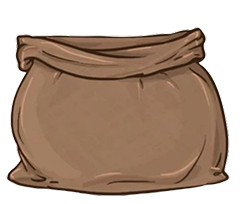
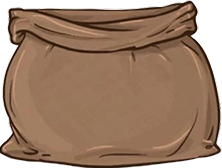
#18 tiles container, game buttons added

diff --git a/app/gamestate/[id]/page.tsx b/app/gamestate/[id]/page.tsx
@@ -2,6 +2,7 @@
 
 import React, { useState } from "react";
 import "@ant-design/v5-patch-for-react-19";
+import { Button } from "antd"; 
 import Image from "next/image";
 import "../gamestate.css";
 
@@ -113,6 +114,22 @@ const Gamestate: React.FC = () => {
         }
     };
 
+    const verifyWord = () => {
+        alert("WordVerify");
+    }
+
+    const exchangeTiles = () => {
+        alert("Exchange");
+    }
+
+    const skipTurn = () => {
+        alert("Skip");
+    }
+
+    const commitWord = () => {
+        alert("WordCommited");
+    }
+
     return (
         <div id="screen">
             <div id="board-container">
@@ -143,10 +160,12 @@ const Gamestate: React.FC = () => {
                 </div>
             </div>
             <div id="rest-container">
-                <div id="top"></div>
+                <div id="top">
+
+                </div>
                 <div id="bag-stuff">
                     <div id="bag-image">
-                        <Image id="bag-jpg" src="/TilesBag.png" alt="Letters Bag" width={248} height={204} priority />
+                        <Image id="bag-jpg" src="/TilesBag.png" alt="Letters Bag" width={222} height={168} priority />
                     </div>
                     <div id="bag-info">
                         <div id="bag-description-container">
@@ -173,7 +192,45 @@ const Gamestate: React.FC = () => {
                         </div>
                     </div>
                 </div>
-                <div id="game-buttons"></div>
+                <div id="tiles-storage-container">
+                <div 
+                    id="tiles-storage" 
+                    >
+                    {[...Array(7)].map((_, col) => (
+                        <div 
+                        key={col} 
+                        id={col.toString()} 
+                        className="tile-placeholder"
+                        />
+                    ))}
+                    </div>
+                </div>
+                <div id="game-buttons">
+                    <div id="upper-row-container">
+                        <div id="verify-button-container">
+                            <Button onClick = {verifyWord} id="verify-button"  className="game-buttons">
+                                Verify
+                            </Button>
+                        </div>
+                        <div id="exchange-button-container">
+                            <Button onClick = {() => exchangeTiles()} id="exhange-button" className="game-buttons">
+                                Exchange
+                            </Button>
+                        </div>
+                        <div id="skip-button-container">
+                            <Button onClick = {skipTurn} id="skip-button" className="game-buttons">
+                                Skip
+                            </Button>
+                        </div>
+                    </div>
+                    <div id="lower-row-container">
+                        <div id="commit-button-container">
+                            <Button onClick = {commitWord} id="commit-button" className="game-buttons">
+                                Play Word
+                            </Button>
+                        </div>
+                    </div>
+                </div>
             </div>
         </div>
     );

diff --git a/app/gamestate/gamestate.css b/app/gamestate/gamestate.css
@@ -11,12 +11,12 @@ div {
     display: flex;
     height: 100vh;
     width:fit-content;
+    margin-left: 1vw;
 }
 
 #game-board {
     height: 95vh;
     width: 95vh;
-    /* border-color: pink; */
     display: grid;
     margin: auto;
 }
@@ -37,19 +37,15 @@ div {
 
 #top {
     width: 100%;
-    height: 35vh;
-}
-
-#game-buttons {
-    width: 100%;
-    height: 35vh;
+    height: 33.9vh;
 }
 
 #bag-stuff {
     display: flex;
     width: 100%;
-    height: 30vh;
+    height: 25vh;
 }
+
 
 #bag-image {
     width: 33%;
@@ -100,7 +96,7 @@ div {
 
 #bag-input {
     width: 90%;
-    height: 60%;
+    height: 80%;
     border-radius: 10px;
     border: none;
     font-size: 4vh;
@@ -115,13 +111,14 @@ div {
 }
 
 #bag-button {
-    height: 60%;
+    height: 80%;
     width: 90%;
     border-radius: 10px;
     border: none;
     font-size: 4.5vh;
     background-color: #9A9CF5;
     cursor: pointer;
+    font-weight: 550;
 }
 
 #bag-button:hover {
@@ -142,6 +139,96 @@ div {
     font-style: italic;
     height: fit-content;
     padding-right: 1vw;
+}
+
+#tiles-storage-container {
+    display: flex;
+    justify-content: center;
+    align-items: center;
+    width: 100%;
+    height: 15vh;
+}
+
+#tiles-storage {
+    display: grid;
+    grid-template-columns: repeat(7, 1fr);
+    gap: 8px;
+    padding: 8px;
+    height: 12vh;
+    background-color: #9A9CF5;
+}
+
+.tile-placeholder {
+    width: 10vh;
+    height: 10vh;
+    background-color: #ffffff;
+    border-radius: 10px;
+}
+  
+button.game-buttons {
+    height: 100%;
+    width: 100%;
+    font-size: 6vh;
+    font-weight: 700;
+}
+
+#game-buttons {
+    width: 100%;
+    height: 27.5vh;
+    display: flex;
+    flex-direction: column;
+}
+
+#upper-row-container {
+    width: 100%;
+    height: 45%;
+    display: flex;
+    flex-direction: row;
+}
+
+#verify-button-container {
+    height: 100%;
+    width: 41%;
+    padding: 1%;
+}
+
+#verify-button {
+    background-color:#9A9CF5;
+}
+
+#exchange-button-container {
+    height: 100%;
+    width: 37%;
+    padding: 1%
+}
+
+#exhange-button {
+    background-color: #9A9CF5;
+}
+
+#skip-button-container {
+    height: 100%;
+    width: 22%;
+    padding: 1%;
+}
+
+#skip-button {
+    background-color: #CE8D8D;
+}
+
+#lower-row-container {
+    width: 100%;
+    height: 45%;
+}
+
+#commit-button-container {
+    width: 100%;
+    height: 100%;
+    padding: 1%;
+}
+
+#commit-button {
+    background-color: #4AAC55;
 }
 
 .TW {

diff --git a/app/dashboard/page.tsx b/app/dashboard/page.tsx
@@ -4,7 +4,7 @@ import React, { useEffect, useState } from 'react';
 import './dashboard.css';
 import Image from "next/image";
 import { useApi } from "@/hooks/useApi";
-import useLocalStorage from "@/hooks/useLocalStorage";
+// import useLocalStorage from "@/hooks/useLocalStorage";
 
 
 interface Friend {
